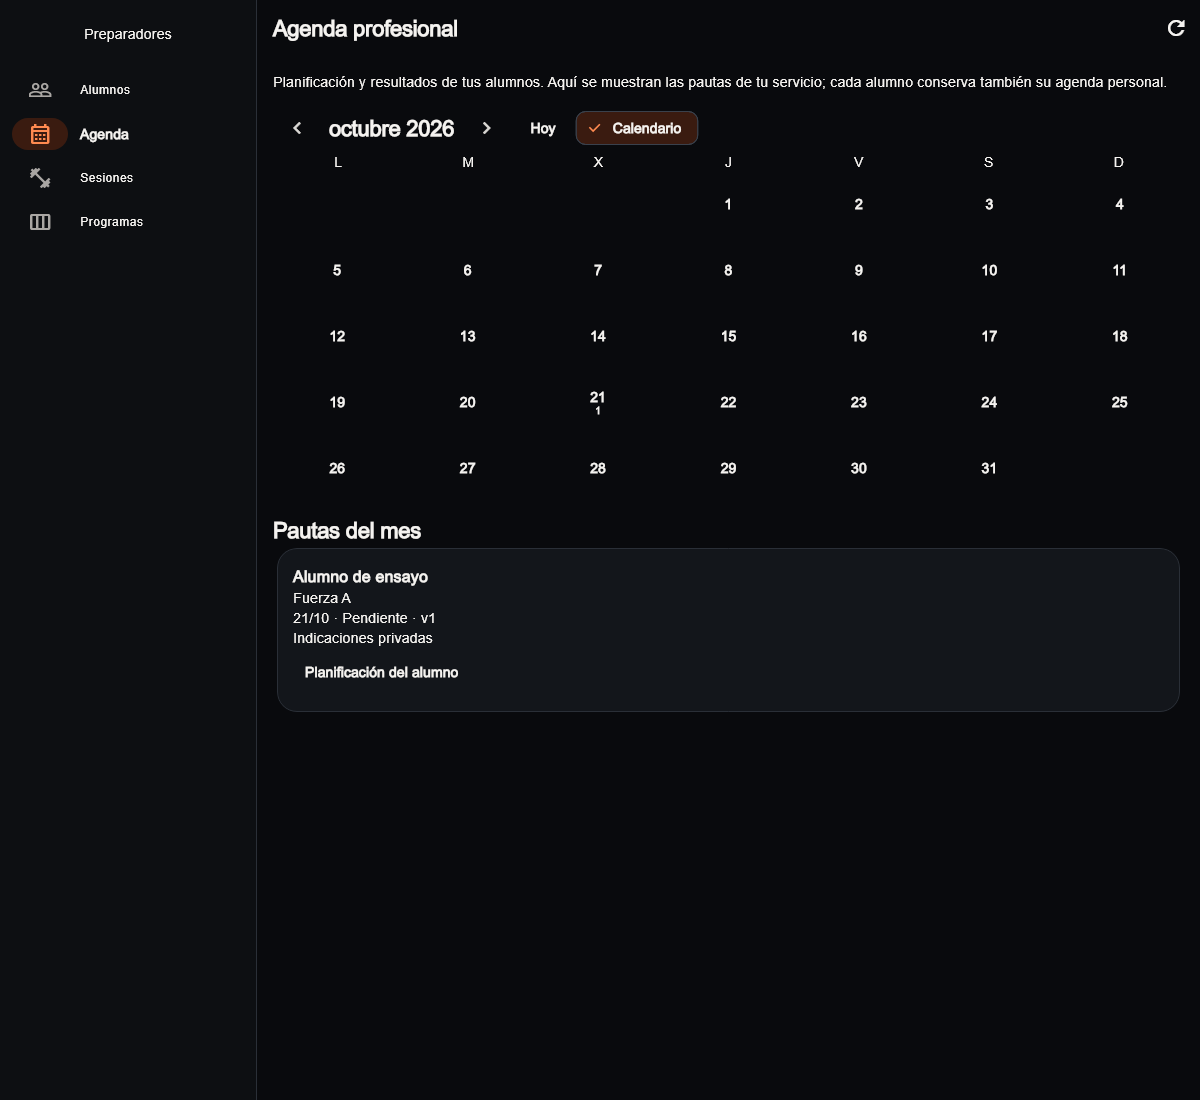
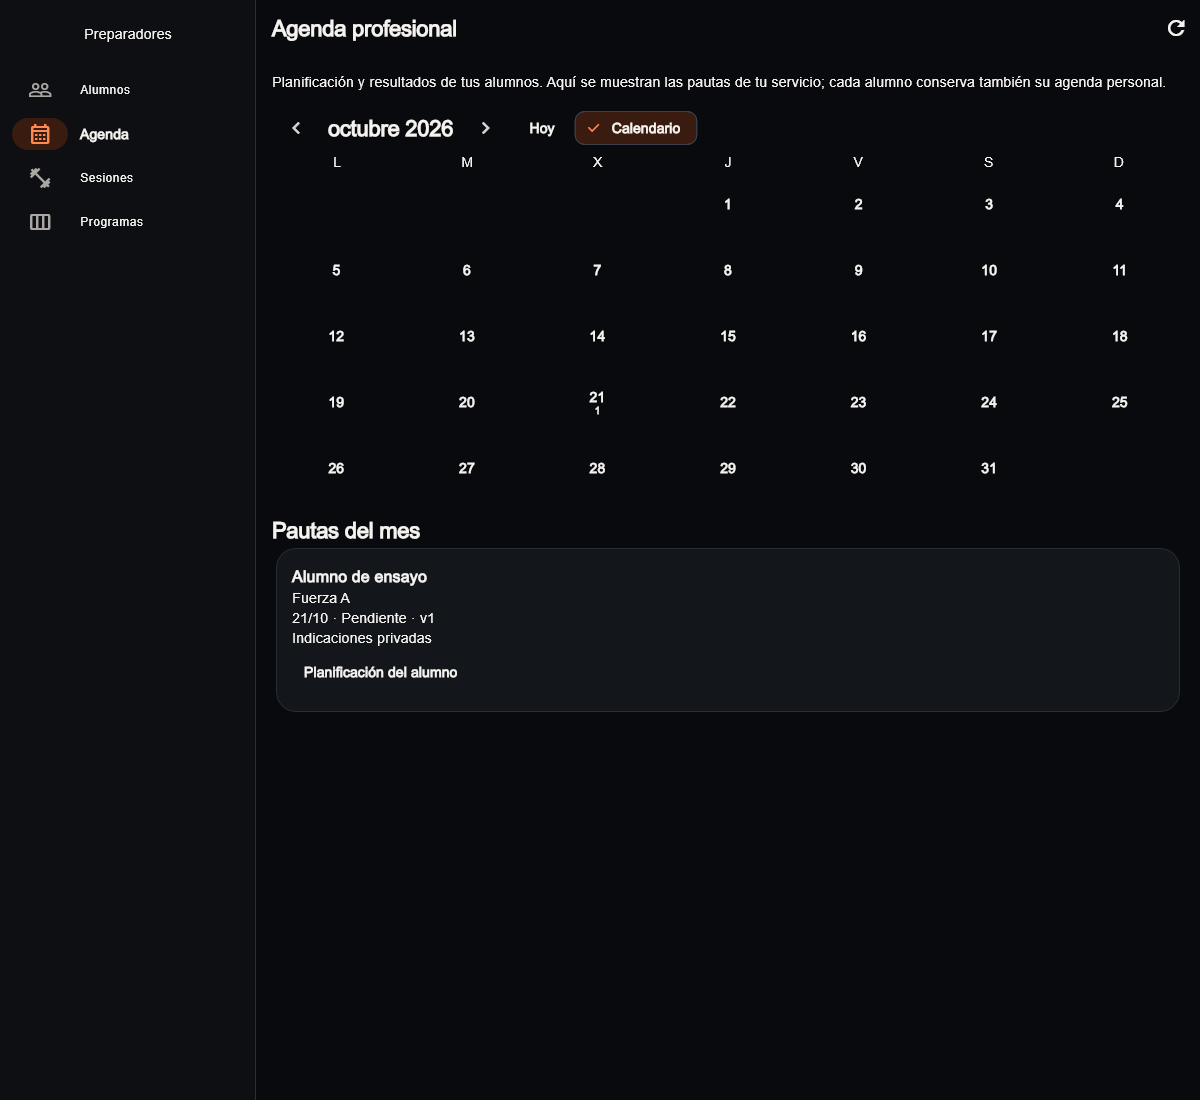
Conserva accesible la navegación lateral del preparador

Changed region(s): [[0.2467, 0.0618, 0.9558, 0.1236], [0.2158, 0.4636, 0.37, 0.6182], [0.2158, 0.0, 0.37, 0.0309]]

diff --git a/trainer_app/lib/trainer_shell.dart b/trainer_app/lib/trainer_shell.dart
@@ -26,28 +26,48 @@ class TrainerShell extends StatelessWidget {
         if (constraints.maxWidth >= 1100 &&
             MediaQuery.textScalerOf(context).scale(16) < 24) {
           return Scaffold(
-            body: Row(
+            body: Stack(
               children: [
-                NavigationRail(
-                  extended: true,
-                  selectedLabelTextStyle: Theme.of(context).textTheme.labelLarge
-                      ?.copyWith(fontWeight: FontWeight.w800),
-                  selectedIndex: selected,
-                  onDestinationSelected: go,
-                  leading: const Padding(
-                    padding: EdgeInsets.all(16),
-                    child: Text('Preparadores'),
-                  ),
-                  destinations: [
-                    for (final item in destinations)
-                      NavigationRailDestination(
-                        icon: Icon(item.$3),
-                        label: Text(item.$2),
-                      ),
-                  ],
+                const SizedBox.expand(),
+                Padding(
+                  padding: const EdgeInsets.only(left: 256),
+                  child: child,
                 ),
-                const VerticalDivider(width: 1),
-                Expanded(child: child),
+                // El Navigator contiene BlockSemantics. Pintar la navegación
+                // después conserva sus destinos para lectores de pantalla.
+                Positioned(
+                  left: 0,
+                  top: 0,
+                  bottom: 0,
+                  width: 256,
+                  child: NavigationRail(
+                    extended: true,
+                    minExtendedWidth: 256,
+                    selectedLabelTextStyle: Theme.of(context)
+                        .textTheme
+                        .labelLarge
+                        ?.copyWith(fontWeight: FontWeight.w800),
+                    selectedIndex: selected,
+                    onDestinationSelected: go,
+                    leading: const Padding(
+                      padding: EdgeInsets.all(16),
+                      child: Text('Preparadores'),
+                    ),
+                    destinations: [
+                      for (final item in destinations)
+                        NavigationRailDestination(
+                          icon: Icon(item.$3),
+                          label: Text(item.$2),
+                        ),
+                    ],
+                  ),
+                ),
+                const Positioned(
+                  left: 255,
+                  top: 0,
+                  bottom: 0,
+                  child: VerticalDivider(width: 1),
+                ),
               ],
             ),
           );

diff --git a/trainer_app/test/trainer_program_flow_test.dart b/trainer_app/test/trainer_program_flow_test.dart
@@ -191,6 +191,51 @@ Future<void> openProgramDialog(
 
 void main() {
   testWidgets(
+    'la navegación lateral sigue disponible para lectores de pantalla',
+    (tester) async {
+      tester.view.physicalSize = const Size(1200, 1000);
+      tester.view.devicePixelRatio = 1;
+      addTearDown(tester.view.reset);
+      final semantics = tester.ensureSemantics();
+      try {
+        final router = GoRouter(
+          initialLocation: '/programs',
+          routes: [
+            ShellRoute(
+              builder: (_, state, child) =>
+                  TrainerShell(location: state.uri.path, child: child),
+              routes: [
+                GoRoute(
+                  path: '/programs',
+                  builder: (_, _) =>
+                      const Scaffold(body: Text('Biblioteca del profesional')),
+                ),
+              ],
+            ),
+          ],
+        );
+        addTearDown(router.dispose);
+        await tester.pumpWidget(
+          MaterialApp.router(theme: EntrenaTheme.dark, routerConfig: router),
+        );
+        await tester.pumpAndSettle();
+        for (final label in ['Alumnos', 'Agenda', 'Sesiones', 'Programas']) {
+          final labels = tester.semantics.simulatedAccessibilityTraversal().map(
+            (node) => node.getSemanticsData().label,
+          );
+          expect(
+            labels.any((text) => text.contains(label)),
+            isTrue,
+            reason: '$label debe estar disponible fuera de la ruta activa',
+          );
+        }
+      } finally {
+        semantics.dispose();
+      }
+    },
+  );
+
+  testWidgets(
     'revisar la biblioteca no invalida una receta elegida en el montaje actual',
     (tester) async {
       final repo = ProgramFixture();

diff --git a/docs/TRAINER_PRIVATE_PROGRAMS.md b/docs/TRAINER_PRIVATE_PROGRAMS.md
@@ -100,14 +100,18 @@ privadas sin grants generan INFO de RLS sin políticas y los índices recién
 creados pueden aparecer sin uso. No se corrigen avisos ajenos en esta entrega.
 
 Análisis limpio en deportista, ADMIN, portal y paquete común. Baterías: 1144
-raíz (una omisión previa), 301 ADMIN (dos previas), 24 portal y 67 compartidas.
-Las nueve regresiones nuevas cubren compositor real, receta/fases, operación
+raíz (una omisión previa), 301 ADMIN (dos previas), 25 portal y 67 compartidas.
+Las diez regresiones nuevas cubren compositor real, receta/fases, operación
 incierta, tanda repetida, agenda paginada, 320/1200 px con texto 2× y guard al
 cambiar de destino. Diez capturas reales de widgets con datos ficticios están
 en `docs/visual-audit/trainer-programs-2026-10-21/`. Web Dev Release compilada.
 Seis pruebas del empaquetador verifican origen, aislamiento de host, hash y
 dependencias locales: comprueba todos los paquetes resueltos de Trainer y no
 incluye paquetes aún no consumidos que se estén creando en otro chat.
+La comprobación del portal detecta que el Navigator bloqueaba la semántica de
+la barra lateral pintada antes. El shell pinta la navegación después, conservando
+su posición visual; una regresión recorre el árbol accesible y comprueba los
+cuatro destinos. Las capturas se regeneran tras la corrección.
 
 ## Referencia observada en Harbiz
 

diff --git a/docs/ROADMAP.md b/docs/ROADMAP.md
@@ -4,7 +4,7 @@
 composición de programas extraída íntegra de ADMIN al paquete común, biblioteca
 versionada, creación de sesiones dentro, selección de fases/fechas y envío
 atómico al alumno. Agenda mensual y navegación común. Análisis limpio, 1144
-pruebas raíz (una omisión previa), 301 ADMIN (dos previas), 24 portal y 67 del
+pruebas raíz (una omisión previa), 301 ADMIN (dos previas), 25 portal y 67 del
 paquete; trece contratos SQL con ROLLBACK y 45 contenciones nativas locales.
 Diez capturas de widgets revisadas, incluida navegación móvil/texto 2×.
 Migración aplicada solo a Dev, 182 coincidentes. Publicación web y aceptación
